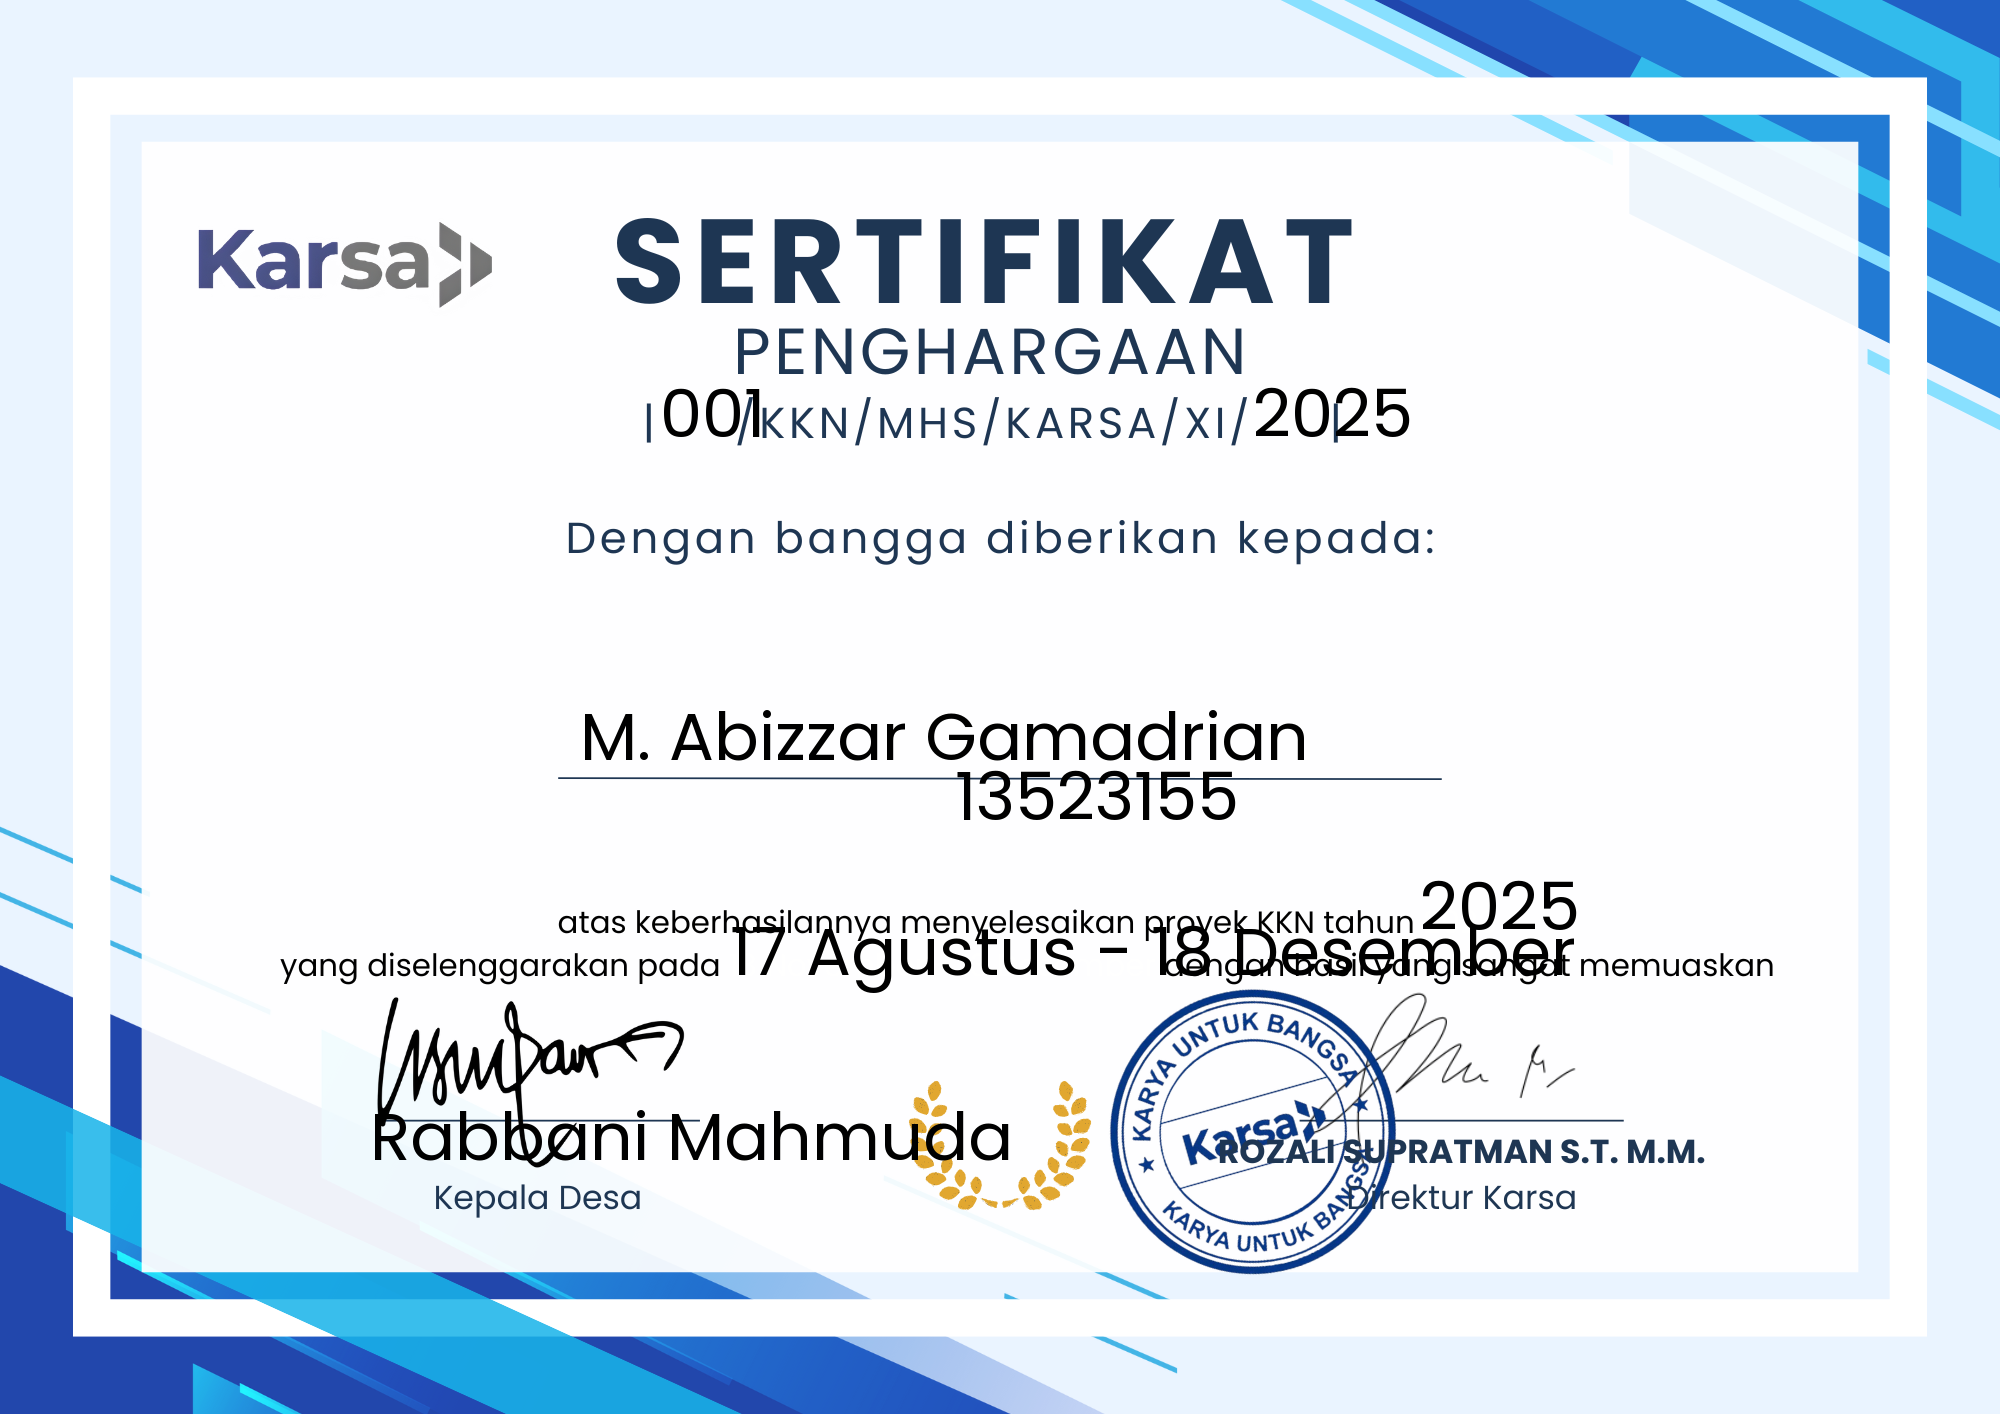
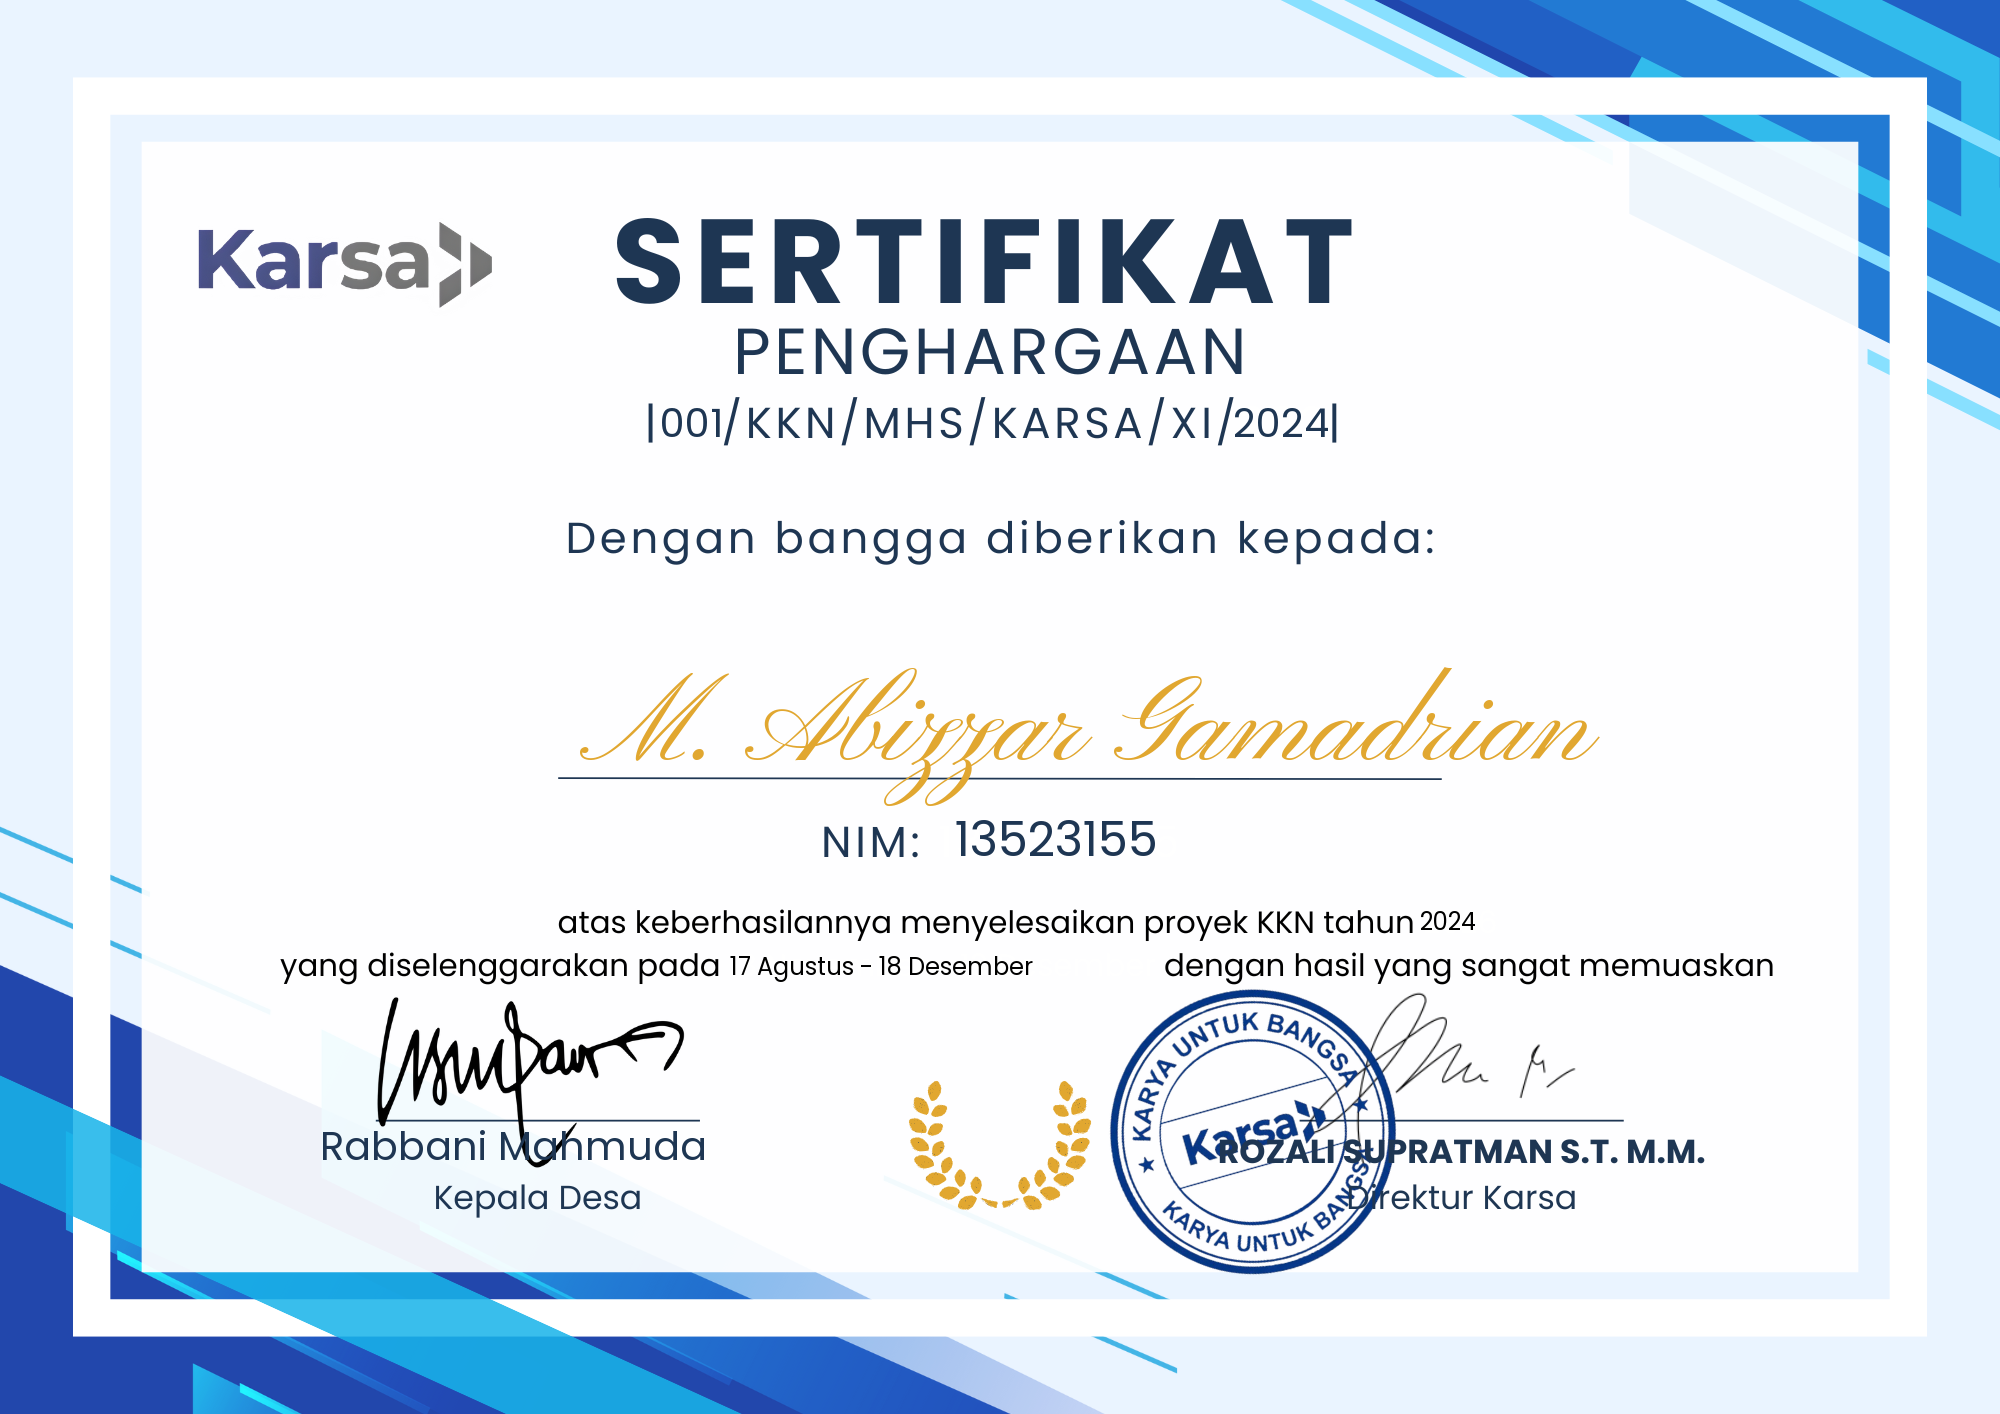
feat: code v2

diff --git a/index.php b/index.php
@@ -1,52 +1,123 @@
 <?php
-// --- 1. KONFIGURASI SISTEM ---
-$fontName = '/Poppins-Regular.ttf'; // Pastikan file ini ada
-$fontFile = realpath(__DIR__ . '/' . $fontName);
-$templateFile = __DIR__ . '/template.png'; // Pastikan file ini ada
-$outputDir = __DIR__ . '/hasil_sertifikat/';
-$fontSize = 50; // Ukuran font default (bisa diubah)
-$fontColor = [0, 0, 0]; // Warna Hitam (R, G, B)
+// --- 1. SETUP FOLDER ---
+$templateFile = __DIR__ . '/template.png';
+$outputDir    = __DIR__ . '/hasil_sertifikat/';
 
-// Buat folder output jika belum ada
-if (!file_exists($outputDir)) {
-    mkdir($outputDir, 0777, true);
-}
+if (!file_exists($outputDir)) { mkdir($outputDir, 0777, true); }
 
-// Variabel untuk menampung pesan sukses/error
 $pesan = "";
 $fileDownload = "";
 
-// --- 2. PROSES JIKA TOMBOL DITEKAN ---
+// --- 2. PROSES UTAMA ---
 if ($_SERVER['REQUEST_METHOD'] === 'POST') {
-    
-    // Cek kelengkapan file aset
-    if (!$fontFile || !file_exists($fontFile)) {
-        die("Error: File font '$fontName' tidak ditemukan.");
-    }
-    if (!file_exists($templateFile)) {
-        die("Error: File template.png tidak ditemukan.");
-    }
 
-    // Load Gambar
+    if (!file_exists($templateFile)) { die("Error: File template.png tidak ditemukan."); }
+
+    // Load Gambar Template
     $ext = pathinfo($templateFile, PATHINFO_EXTENSION);
     $image = (strtolower($ext) == 'png') ? imagecreatefrompng($templateFile) : imagecreatefromjpeg($templateFile);
-    $color = imagecolorallocate($image, $fontColor[0], $fontColor[1], $fontColor[2]);
 
-    // --- DAFTAR INPUT & KOORDINAT (Sesuai Request Anda) ---
-    // Format: 'name_di_form' => [X, Y, 'Nilai yang diinput']
-    $inputs = [
-        'no_sertifikat' => ['x' => 660,  'y' => 437,  'text' => $_POST['no_sertifikat']],
-        'thn_sertifikat'=> ['x' => 1253, 'y' => 437,  'text' => $_POST['thn_sertifikat']],
-        'nama_penerima' => ['x' => 580,  'y' => 760,  'text' => $_POST['nama_penerima']],
-        'nim_penerima'  => ['x' => 955,  'y' => 820,  'text' => $_POST['nim_penerima']],
-        'thn_laksana'   => ['x' => 1420, 'y' => 930,  'text' => $_POST['thn_laksana']],
-        'tgl_laksana'   => ['x' => 730,  'y' => 975,  'text' => $_POST['tgl_laksana']],
-        'kades'         => ['x' => 370,  'y' => 1160, 'text' => $_POST['kades']],
+    // --- 3. KONFIGURASI SPESIFIK PER ITEM ---
+    // Di sini Anda mengatur Font, Ukuran, Warna, dan Posisi masing-masing
+    
+    $dataSertifikat = [
+        
+        // 1. Nomor Sertifikat (Biasanya font tegas/kecil)
+        'no_sertifikat' => [
+            'text'  => $_POST['no_sertifikat'],
+            'x'     => 657  , 
+            'y'     => 437,
+            'size'  => 30,                 // Ukuran Font
+            'font'  => '/Poppins-Regular.ttf',   // Nama File Font
+            'color' => [30, 54, 83]           
+        ],
+
+        // 2. Tahun Sertifikat
+        'thn_sertifikat' => [
+            'text'  => $_POST['thn_sertifikat'],
+            'x'     => 1233, 
+            'y'     => 437,
+            'size'  => 30,
+            'font'  => '/Poppins-Regular.ttf',
+            'color' => [30, 54, 83]        
+        ],
+
+        // 3. Nama Penerima (Biasanya Paling Besar & Font Bagus)
+        'nama_penerima' => [
+            'text'  => $_POST['nama_penerima'],
+            'x'     => 'CENTER', 
+            'y'     => 760,
+            'size'  => 90,                 // Ukuran Lebih Besar
+            'font'  => '/PinyonScript-Regular.ttf',   // Font Sambung/Latin
+            'color' => [225, 167, 48]      // Warna Emas (Dark Goldenrod)
+        ],
+
+        // 4. NIM Penerima
+        'nim_penerima' => [
+            'text'  => $_POST['nim_penerima'],
+            'x'     => 930, 
+            'y'     => 854,
+            'size'  => 36,
+            'font'  => '/Poppins-Regular.ttf',
+            'color' => [30, 54, 83]
+        ],
+
+        // 5. Tahun Pelaksanaan
+        'thn_laksana' => [
+            'text'  => $_POST['thn_laksana'],
+            'x'     => 1420, 
+            'y'     => 930,
+            'size'  => 26,
+            'font'  => '/Poppins-Regular.ttf',
+            'color' => [0, 0, 0]
+        ],
+
+        // 6. Tanggal Pelaksanaan
+        'tgl_laksana' => [
+            'text'  => $_POST['tgl_laksana'],
+            'x'     => 730, 
+            'y'     => 975,
+            'size'  => 26,
+            'font'  => '/Poppins-Regular.ttf',
+            'color' => [0, 0, 0]
+        ],
+
+        // 7. Nama Kepala Desa
+        'kades' => [
+            'text'  => $_POST['kades'],
+            'x'     => 320, 
+            'y'     => 1160,
+            'size'  => 30,
+            'font'  => '/Poppins-Regular.ttf', // Atau font tanda tangan jika ada
+            'color' => [30, 54, 83]       // Warna Navy Blue
+        ]
     ];
 
-    // Loop untuk menulis setiap data ke gambar
-    foreach ($inputs as $key => $data) {
-        imagettftext($image, $fontSize, 0, $data['x'], $data['y'], $color, $fontFile, $data['text']);
+    // --- LOOP PROCESSING ---
+    foreach ($dataSertifikat as $key => $item) {
+        // 1. Validasi Font Path
+        $fontPath = realpath(__DIR__ . '/' . $item['font']);
+        if (!$fontPath) {
+            // Fallback jika font khusus tidak ada, pakai default sistem (biar tidak error fatal)
+            // Tapi sebaiknya pastikan file font ada.
+            die("Error: Font '{$item['font']}' tidak ditemukan di folder.");
+        }
+
+        // 2. Buat Warna Khusus untuk item ini
+        // Format array color [Red, Green, Blue]
+        $colorAllocated = imagecolorallocate($image, $item['color'][0], $item['color'][1], $item['color'][2]);
+
+        // 3. Tulis Teks
+        imagettftext(
+            $image, 
+            $item['size'], 
+            0, // Sudut kemiringan (0 = lurus)
+            $item['x'], 
+            $item['y'], 
+            $colorAllocated, 
+            $fontPath, 
+            $item['text']
+        );
     }
 
     // Simpan File
@@ -67,71 +138,70 @@ if ($_SERVER['REQUEST_METHOD'] === 'POST') {
 <head>
     <meta charset="UTF-8">
     <meta name="viewport" content="width=device-width, initial-scale=1.0">
-    <title>Generator Sertifikat Desa</title>
+    <title>Generator Sertifikat Custom</title>
     <style>
-        body { font-family: sans-serif; background-color: #f0f2f5; display: flex; justify-content: center; align-items: center; min-height: 100vh; margin: 0; }
-        .card { background: white; padding: 2rem; border-radius: 12px; box-shadow: 0 4px 12px rgba(0,0,0,0.1); width: 100%; max-width: 500px; }
-        h2 { text-align: center; color: #333; margin-bottom: 20px; }
-        .form-group { margin-bottom: 15px; }
-        label { display: block; margin-bottom: 5px; font-weight: bold; color: #555; }
-        input[type="text"], input[type="number"], input[type="date"] { width: 100%; padding: 10px; border: 1px solid #ddd; border-radius: 6px; box-sizing: border-box; }
-        button { width: 100%; padding: 12px; background-color: #007bff; color: white; border: none; border-radius: 6px; font-size: 16px; cursor: pointer; transition: 0.3s; }
-        button:hover { background-color: #0056b3; }
-        .alert { padding: 15px; background-color: #d4edda; color: #155724; border-radius: 6px; margin-bottom: 20px; text-align: center; }
-        .btn-download { display: inline-block; margin-top: 10px; text-decoration: none; font-weight: bold; color: #155724; border-bottom: 2px solid #155724; }
+        body { font-family: sans-serif; background-color: #f0f2f5; display: flex; justify-content: center; align-items: center; min-height: 100vh; margin: 0; padding: 20px;}
+        .card { background: white; padding: 2rem; border-radius: 12px; box-shadow: 0 4px 12px rgba(0,0,0,0.1); width: 100%; max-width: 600px; }
+        h2 { text-align: center; margin-bottom: 20px; }
+        .grid-form { display: grid; grid-template-columns: 1fr 1fr; gap: 15px; }
+        .full-width { grid-column: span 2; }
+        label { display: block; margin-bottom: 5px; font-weight: bold; font-size: 0.9rem; }
+        input { width: 100%; padding: 10px; border: 1px solid #ddd; border-radius: 6px; box-sizing: border-box; }
+        button { width: 100%; padding: 15px; background-color: #28a745; color: white; border: none; border-radius: 6px; font-weight: bold; cursor: pointer; margin-top: 10px;}
+        button:hover { background-color: #218838; }
+        .alert { background: #d4edda; color: #155724; padding: 15px; border-radius: 6px; text-align: center; margin-bottom: 15px; }
+        .btn-dl { color: #155724; font-weight: bold; }
     </style>
 </head>
 <body>
 
-    <div class="card">
-        <h2>Buat Sertifikat Otomatis</h2>
+<div class="card">
+    <h2>Input Data Sertifikat</h2>
 
-        <?php if ($pesan): ?>
-            <div class="alert">
-                <?= $pesan ?> <br>
-                <a href="<?= $fileDownload ?>" download class="btn-download">Download Sertifikat (Klik Disini)</a>
-            </div>
-        <?php endif; ?>
+    <?php if ($pesan): ?>
+        <div class="alert">
+            <?= $pesan ?> <br>
+            <a href="<?= $fileDownload ?>" download class="btn-dl">>> Download Sertifikat Siap Cetak <<</a>
+        </div>
+    <?php endif; ?>
 
-        <form method="POST" action="">
-            <div class="form-group">
-                <label>Nomor Sertifikat</label>
-                <input type="text" name="no_sertifikat" placeholder="Contoh: 001/DS/2024" required>
-            </div>
-            
-            <div class="form-group">
-                <label>Tahun Sertifikat</label>
-                <input type="text" name="thn_sertifikat" placeholder="Contoh: 2024" required>
-            </div>
+    <form method="POST" class="grid-form">
+        <div class="full-width">
+            <label>Nama Penerima</label>
+            <input type="text" name="nama_penerima" required>
+        </div>
+        
+        <div>
+            <label>NIM</label>
+            <input type="text" name="nim_penerima" required>
+        </div>
+        <div>
+            <label>Nomor Sertifikat</label>
+            <input type="text" name="no_sertifikat" required>
+        </div>
 
-            <div class="form-group">
-                <label>Nama Penerima</label>
-                <input type="text" name="nama_penerima" placeholder="Nama Lengkap" required>
-            </div>
+        <div>
+            <label>Tahun Sertifikat</label>
+            <input type="text" name="thn_sertifikat" value="2024" required>
+        </div>
+        <div>
+            <label>Tahun Pelaksanaan</label>
+            <input type="text" name="thn_laksana" value="2024" required>
+        </div>
 
-            <div class="form-group">
-                <label>NIM Penerima</label>
-                <input type="text" name="nim_penerima" placeholder="Contoh: 10112345" required>
-            </div>
+        <div class="full-width">
+            <label>Tanggal Pelaksanaan</label>
+            <input type="text" name="tgl_laksana" placeholder="Contoh: 17 Agustus 2024" required>
+        </div>
 
-            <div class="form-group">
-                <label>Tahun Pelaksanaan</label>
-                <input type="text" name="thn_laksana" placeholder="Contoh: 2024" required>
-            </div>
+        <div class="full-width">
+            <label>Nama Kepala Desa</label>
+            <input type="text" name="kades" required>
+        </div>
 
-            <div class="form-group">
-                <label>Tanggal Pelaksanaan</label>
-                <input type="text" name="tgl_laksana" placeholder="Contoh: 17 Agustus 2024" required>
-            </div>
-
-            <div class="form-group">
-                <label>Nama Kepala Desa</label>
-                <input type="text" name="kades" placeholder="Nama Kades" required>
-            </div>
-
-            <button type="submit">Cetak Sertifikat</button>
-        </form>
-    </div>
+        <button type="submit" class="full-width">PROSES SERTIFIKAT</button>
+    </form>
+</div>
 
 </body>
 </html>
